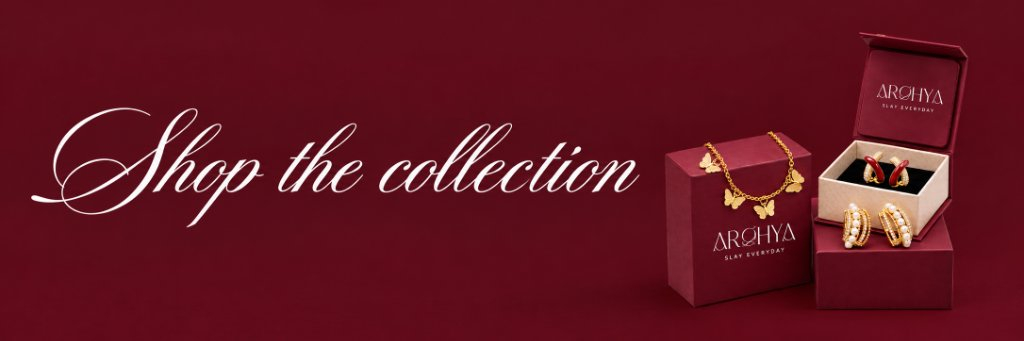
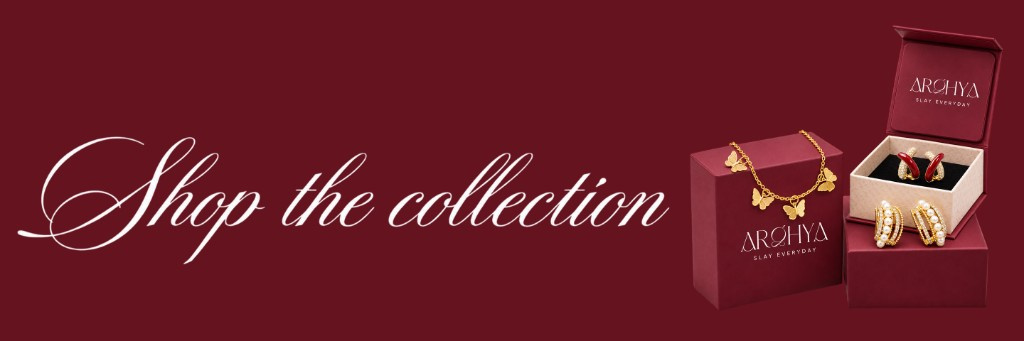
4th nov

Changed region(s): [[0.0, 0.0587, 1.0, 0.9091], [0.0625, 0.6745, 0.125, 0.7331]]

diff --git a/frontend/lib/productsCatalog.ts b/frontend/lib/productsCatalog.ts
@@ -1714,6 +1714,7 @@ A breathtaking designer choker featuring vibrant emerald green stones surrounded
     craft_type: 'Modern Pendant Necklace',
     images: [],
     sizes: ['Free Size'],
+    razorpay_url: 'https://rzp.io/rzp/minimalistsilverwavelayerednec'
   },
 
   'the-minimalist-golden-wave-layered-necklace': {
@@ -1729,6 +1730,7 @@ A breathtaking designer choker featuring vibrant emerald green stones surrounded
     craft_type: 'Modern Pendant Necklace',
     images: [],
     sizes: ['Free Size'],
+    razorpay_url: 'https://rzp.io/rzp/minimalistgoldenwavelayerednec'
   },
 
   'the-azure-guardian-eye-pendant': {
@@ -1744,6 +1746,7 @@ A breathtaking designer choker featuring vibrant emerald green stones surrounded
     craft_type: 'Modern Pendant Necklace',
     images: [],
     sizes: ['Free Size'],
+    razorpay_url: 'https://rzp.io/rzp/azureguardianeyependant'
   },
 
   'the-meadow-dance-butterfly-necklace': {
@@ -1759,6 +1762,7 @@ A breathtaking designer choker featuring vibrant emerald green stones surrounded
     craft_type: 'Modern Pendant Necklace',
     images: [],
     sizes: ['Free Size'],
+    razorpay_url: 'https://rzp.io/rzp/meadowdancebutterflynecklace'
   },
 
   'the-orbit-beaded-long-chain': {
@@ -1774,6 +1778,7 @@ A breathtaking designer choker featuring vibrant emerald green stones surrounded
     craft_type: 'Modern Pendant Necklace',
     images: [],
     sizes: ['Free Size'],
+    razorpay_url: 'https://rzp.io/rzp/orbitbeadedlongchain'
   },
 
   'the-signature-monogram-bar-necklace': {
@@ -1789,6 +1794,7 @@ A breathtaking designer choker featuring vibrant emerald green stones surrounded
     craft_type: 'Modern Pendant Necklace',
     images: [],
     sizes: ['Free Size'],
+    razorpay_url: 'https://rzp.io/rzp/signaturemonogrambarnecklace'
   },
 
   'the-urban-rebel-cross-necklace': {
@@ -1804,6 +1810,7 @@ A breathtaking designer choker featuring vibrant emerald green stones surrounded
     craft_type: 'Modern Pendant Necklace',
     images: [],
     sizes: ['Free Size'],
+    razorpay_url: 'https://rzp.io/rzp/urbanrebelcrossnecklace'
   },
 
   'the-eclipse-open-circle-pendant': {
@@ -1819,6 +1826,7 @@ A breathtaking designer choker featuring vibrant emerald green stones surrounded
     craft_type: 'Modern Pendant Necklace',
     images: [],
     sizes: ['Free Size'],
+    razorpay_url: 'https://rzp.io/rzp/eclipseopencirclependant'
   },
 
   'the-sweetheart-minimal-pendant': {
@@ -1834,6 +1842,7 @@ A breathtaking designer choker featuring vibrant emerald green stones surrounded
     craft_type: 'Modern Pendant Necklace',
     images: [],
     sizes: ['Free Size'],
+    razorpay_url: 'https://rzp.io/rzp/sweetheartminimalpendant'
   },
 
   'the-elegant-pearl-lariat-necklace': {
@@ -1849,6 +1858,7 @@ A breathtaking designer choker featuring vibrant emerald green stones surrounded
     craft_type: 'Modern Pendant Necklace',
     images: [],
     sizes: ['Free Size'],
+    razorpay_url: 'https://rzp.io/rzp/elegantpearllariatnecklace'
   },
 
   'the-midnight-romance-y-necklace': {
@@ -1864,6 +1874,7 @@ A breathtaking designer choker featuring vibrant emerald green stones surrounded
     craft_type: 'Modern Pendant Necklace',
     images: [],
     sizes: ['Free Size'],
+    razorpay_url: 'https://rzp.io/rzp/midnightromanceynecklace'
   },
 
   'the-starlight-ruby-choker': {
@@ -1879,6 +1890,7 @@ A breathtaking designer choker featuring vibrant emerald green stones surrounded
     craft_type: 'Modern Pendant Necklace',
     images: [],
     sizes: ['Free Size'],
+    razorpay_url: 'https://rzp.io/rzp/starlightrubychoker'
   },
 
   'the-toggle-heart-drop-chain': {
@@ -1894,6 +1906,7 @@ A breathtaking designer choker featuring vibrant emerald green stones surrounded
     craft_type: 'Modern Pendant Necklace',
     images: [],
     sizes: ['Free Size'],
+    razorpay_url: 'https://rzp.io/rzp/toggleheartdropchain'
   },
 
   'the-noir-clover-deluxe-set': {
@@ -1909,6 +1922,7 @@ A breathtaking designer choker featuring vibrant emerald green stones surrounded
     craft_type: 'Modern Pendant Necklace',
     images: [],
     sizes: ['Free Size'],
+    razorpay_url: 'https://rzp.io/rzp/noircloverdeluxeset'
   },
 
   'the-crystal-tear-drop-pendant': {
@@ -1924,6 +1938,7 @@ A breathtaking designer choker featuring vibrant emerald green stones surrounded
     craft_type: 'Modern Pendant Necklace',
     images: [],
     sizes: ['Free Size'],
+    razorpay_url: 'https://rzp.io/rzp/crystalteardroppendant'
   },
 
   'the-onyx-heart-station-chain': {
@@ -1939,6 +1954,7 @@ A breathtaking designer choker featuring vibrant emerald green stones surrounded
     craft_type: 'Modern Pendant Necklace',
     images: [],
     sizes: ['Free Size'],
+    razorpay_url: 'https://rzp.io/rzp/onyxheartstationchain'
   },
 
   'the-heritage-bloom-pendant': {
@@ -1954,6 +1970,7 @@ A breathtaking designer choker featuring vibrant emerald green stones surrounded
     craft_type: 'Modern Pendant Necklace',
     images: [],
     sizes: ['Free Size'],
+    razorpay_url: 'https://rzp.io/rzp/heritagebloompendant'
   },
 
   'the-blush-heart-chain': {
@@ -1969,6 +1986,7 @@ A breathtaking designer choker featuring vibrant emerald green stones surrounded
     craft_type: 'Modern Pendant Necklace',
     images: [],
     sizes: ['Free Size'],
+    razorpay_url: 'https://rzp.io/rzp/blushheartchain'
   },
 
   'the-doves-flight-silver-pendant': {
@@ -1984,6 +2002,7 @@ A breathtaking designer choker featuring vibrant emerald green stones surrounded
     craft_type: 'Modern Pendant Necklace',
     images: [],
     sizes: ['Free Size'],
+    razorpay_url: 'https://rzp.io/rzp/doveflightsilverpendant'
   },
 
   'the-duo-tone-amour-set': {
@@ -1999,6 +2018,7 @@ A breathtaking designer choker featuring vibrant emerald green stones surrounded
     craft_type: 'Modern Pendant Necklace',
     images: [],
     sizes: ['Free Size'],
+    razorpay_url: 'https://rzp.io/rzp/duotonearmourset'
   },
 
   'the-blossoming-heart-ensemble': {
@@ -2014,6 +2034,7 @@ A breathtaking designer choker featuring vibrant emerald green stones surrounded
     craft_type: 'Modern Pendant Necklace',
     images: [],
     sizes: ['Free Size'],
+    razorpay_url: 'https://rzp.io/rzp/blossomingheartensemble'
   },
 
 

diff --git a/frontend/lib/paymentHelper.ts b/frontend/lib/paymentHelper.ts
@@ -92,6 +92,29 @@ export const ALL_PRODUCT_PAYMENT_URLS: Record<string, string> = {
   'vamika-floral-kurti': 'https://rzp.io/rzp/vamikafloralkurti',
   'olive-tie-shoulder-kurti': 'https://rzp.io/rzp/olivetieshoulderkurti',
   'pink-tie-shoulder-kurti': 'https://rzp.io/rzp/pinktieshouklderkurti',
+
+  // ── Anti Tarnish -> Modern Pendants ────────────────────────────────────
+  'the-minimalist-silver-wave-layered-necklace': 'https://rzp.io/rzp/minimalistsilverwavelayerednec',
+  'the-minimalist-golden-wave-layered-necklace': 'https://rzp.io/rzp/minimalistgoldenwavelayerednec',
+  'the-azure-guardian-eye-pendant': 'https://rzp.io/rzp/azureguardianeyependant',
+  'the-meadow-dance-butterfly-necklace': 'https://rzp.io/rzp/meadowdancebutterflynecklace',
+  'the-orbit-beaded-long-chain': 'https://rzp.io/rzp/orbitbeadedlongchain',
+  'the-signature-monogram-bar-necklace': 'https://rzp.io/rzp/signaturemonogrambarnecklace',
+  'the-urban-rebel-cross-necklace': 'https://rzp.io/rzp/urbanrebelcrossnecklace',
+  'the-eclipse-open-circle-pendant': 'https://rzp.io/rzp/eclipseopencirclependant',
+  'the-sweetheart-minimal-pendant': 'https://rzp.io/rzp/sweetheartminimalpendant',
+  'the-elegant-pearl-lariat-necklace': 'https://rzp.io/rzp/elegantpearllariatnecklace',
+  'the-midnight-romance-y-necklace': 'https://rzp.io/rzp/midnightromanceynecklace',
+  'the-starlight-ruby-choker': 'https://rzp.io/rzp/starlightrubychoker',
+  'the-toggle-heart-drop-chain': 'https://rzp.io/rzp/toggleheartdropchain',
+  'the-noir-clover-deluxe-set': 'https://rzp.io/rzp/noircloverdeluxeset',
+  'the-crystal-tear-drop-pendant': 'https://rzp.io/rzp/crystalteardroppendant',
+  'the-onyx-heart-station-chain': 'https://rzp.io/rzp/onyxheartstationchain',
+  'the-heritage-bloom-pendant': 'https://rzp.io/rzp/heritagebloompendant',
+  'the-blush-heart-chain': 'https://rzp.io/rzp/blushheartchain',
+  'the-doves-flight-silver-pendant': 'https://rzp.io/rzp/doveflightsilverpendant',
+  'the-duo-tone-amour-set': 'https://rzp.io/rzp/duotonearmourset',
+  'the-blossoming-heart-ensemble': 'https://rzp.io/rzp/blossomingheartensemble',
 };
 
 /**

diff --git a/frontend/app/products/page.tsx b/frontend/app/products/page.tsx
@@ -1,7 +1,6 @@
 'use client';
 
 import React, { useState, useEffect, Suspense } from 'react';
-import Image from 'next/image';
 import { useSearchParams } from 'next/navigation';
 import { VerticalProductCard }   from '../../components/VerticalProductCard';
 import { HorizontalProductCard } from '../../components/HorizontalProductCard';
@@ -182,21 +181,22 @@ function ProductsPageContent() {
               if (el) el.scrollIntoView({ behavior: 'smooth', block: 'start' });
             }
           }}
-          className="w-full bg-[#5f0c1a] relative flex items-center justify-center cursor-pointer select-none group shadow-md border-b border-[#470813]"
+          className="w-full bg-[#65131f] cursor-pointer select-none shadow-md border-b border-[#470813]"
           title="Click to explore Anti-Tarnish Collection"
         >
-          <div className="w-full max-w-[1920px] aspect-[1024/341] relative overflow-hidden">
-            <Image
-              src="/images/anti_tarnish/shop_collection_banner_3x.png"
-              unoptimized
-              alt="Shop the collection - Arghya Anti-Tarnish Fine Jewelry"
-              fill
-              priority
-              quality={100}
-              sizes="100vw"
-              className="object-contain object-center transition-transform duration-500 ease-out group-hover:scale-[1.006]"
-            />
-          </div>
+          {/* Native img + srcSet keeps the banner pixel-sharp (no Next/Image crop, scale, or fill distortion). */}
+          <img
+            src="/images/anti_tarnish/shop_collection_banner_3x.png"
+            srcSet="/images/anti_tarnish/shop_collection_new_banner.png 1024w, /images/anti_tarnish/shop_collection_banner_2x.png 2048w, /images/anti_tarnish/shop_collection_banner_3x.png 3072w"
+            sizes="100vw"
+            alt="Shop the collection - Arghya Anti-Tarnish Fine Jewelry"
+            width={3072}
+            height={1023}
+            decoding="async"
+            fetchPriority="high"
+            className="block w-full h-auto select-none"
+            draggable={false}
+          />
         </div>
       )}
 
